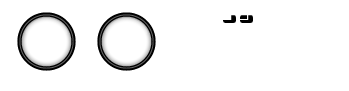
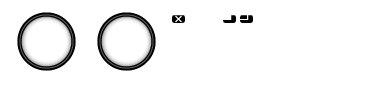
added close button

Changed region(s): [[0.2579, 0.1319, 0.4871, 0.7912], [0.0287, 0.1319, 0.2292, 0.7912], [0.5731, 0.1538, 0.745, 0.2637]]

diff --git a/client/source/templates/lite1/css/buttons.css b/client/source/templates/lite1/css/buttons.css
@@ -52,7 +52,7 @@
 .close-button {
 	width: 16px;
 	height: 12px;
-	background-position: -170px -13px;
+	background-position: -340px -13px;
 }
 
 
